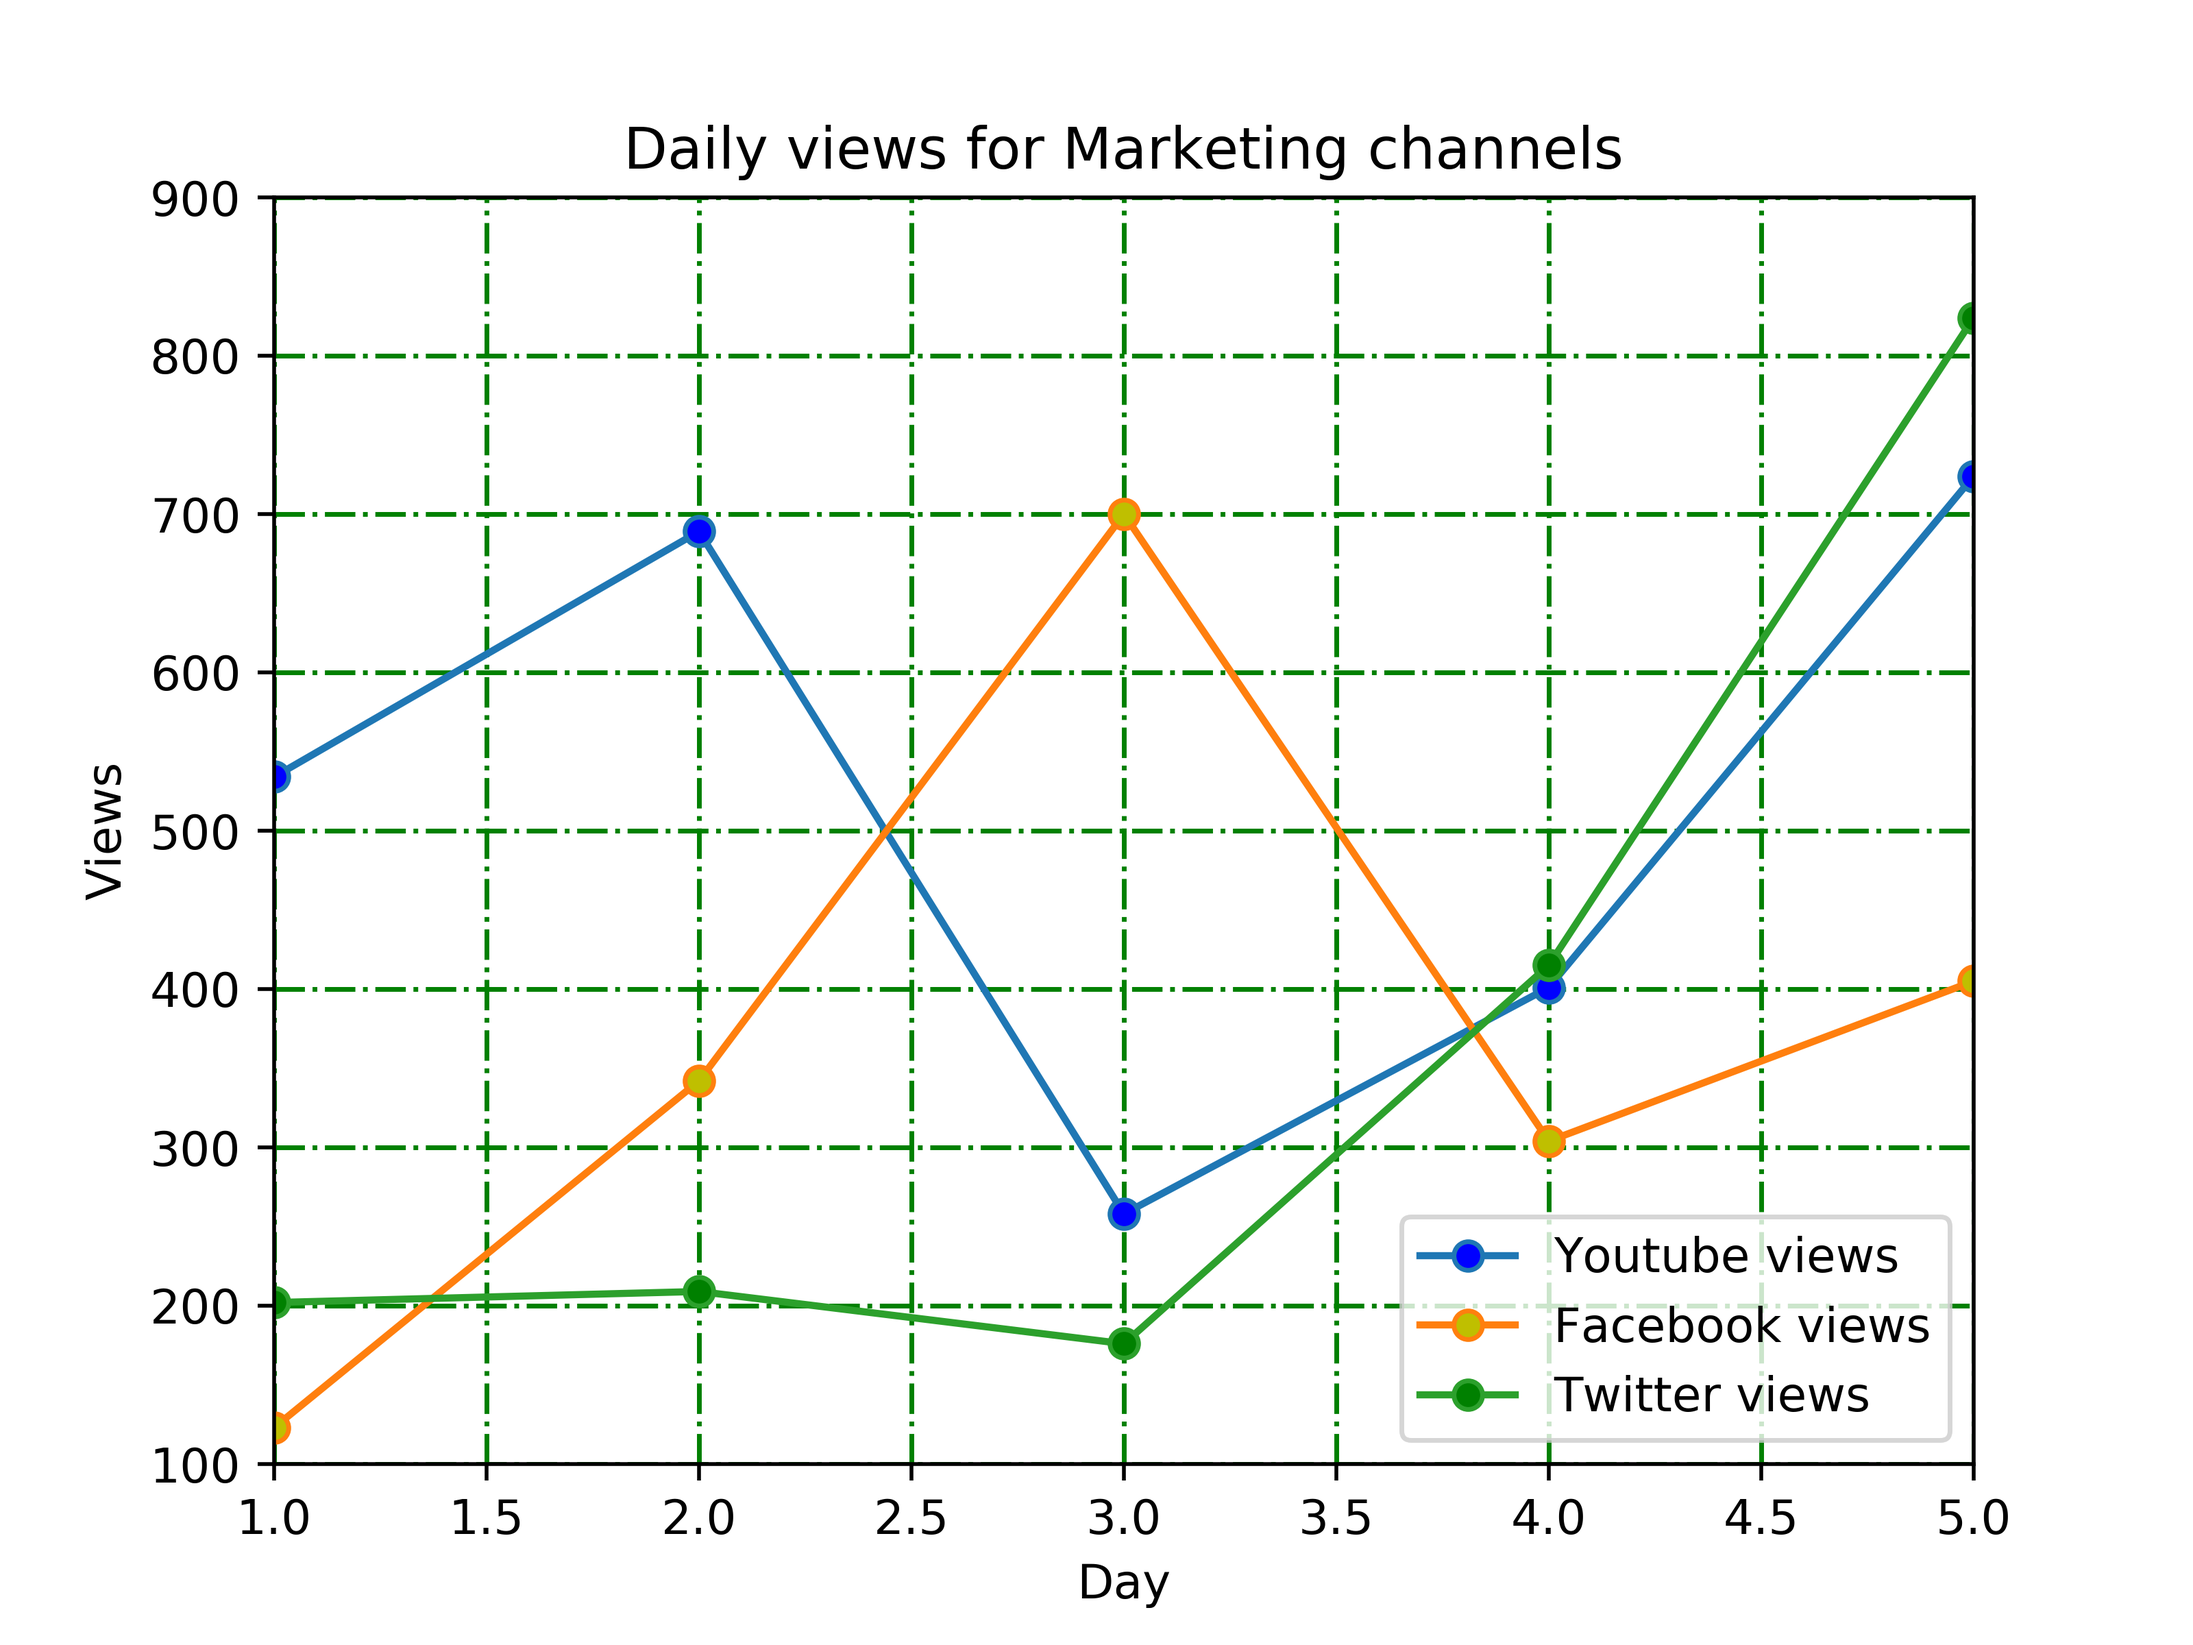
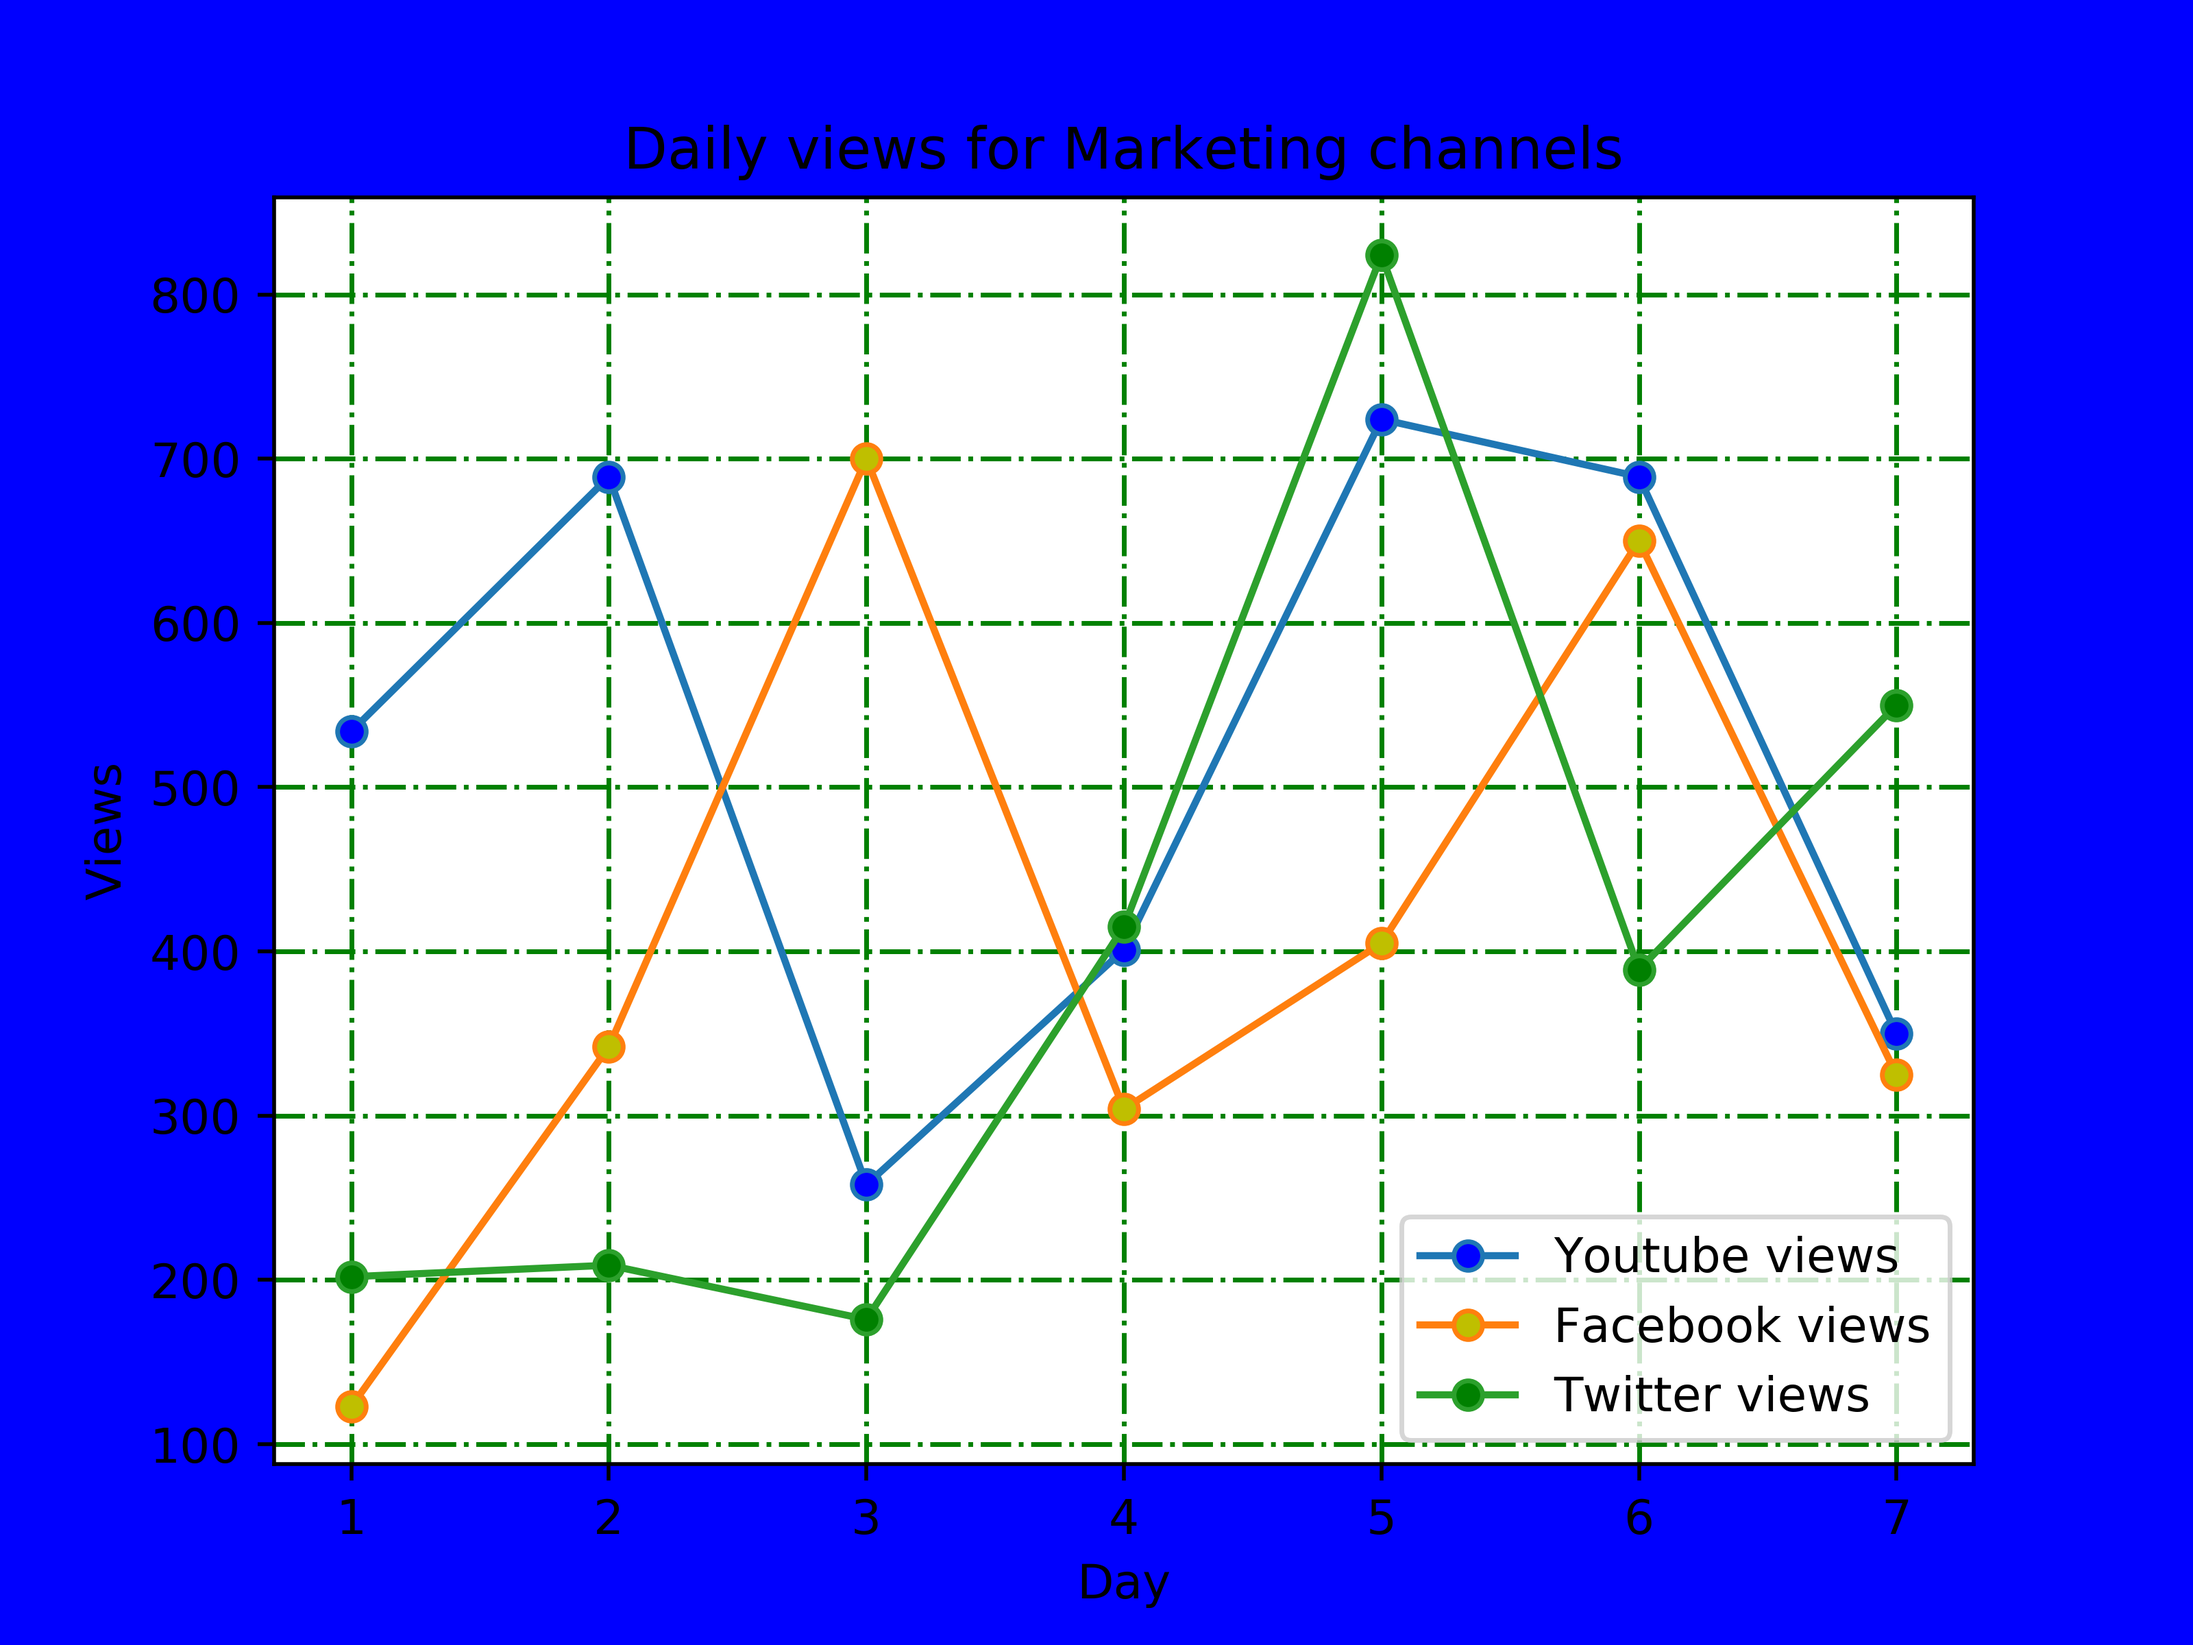
saving the plot updated with face color

diff --git a/introduction_to_data_science/Matplotlibe-module-data-visulization/saving_plot.py b/introduction_to_data_science/Matplotlibe-module-data-visulization/saving_plot.py
@@ -16,8 +16,8 @@ plt.ylabel("Views")
 plt.legend(loc="lower right")
 plt.title("Daily views for Marketing channels")
 plt.grid(True, linewidth=1, color='g', linestyle='-.')
-plt.xlim(1,5)
-plt.ylim(100, 900)
-plt.savefig('/home/ashish/python/introduction_to_data_science/Matplotlibe-module-data-visulization/img1.png', dpi=500)
+# plt.xlim(1,5)
+# plt.ylim(100, 900)
+plt.savefig('/home/ashish/python/introduction_to_data_science/Matplotlibe-module-data-visulization/img1.png', dpi=500, facecolor='b')
 
 plt.show()
